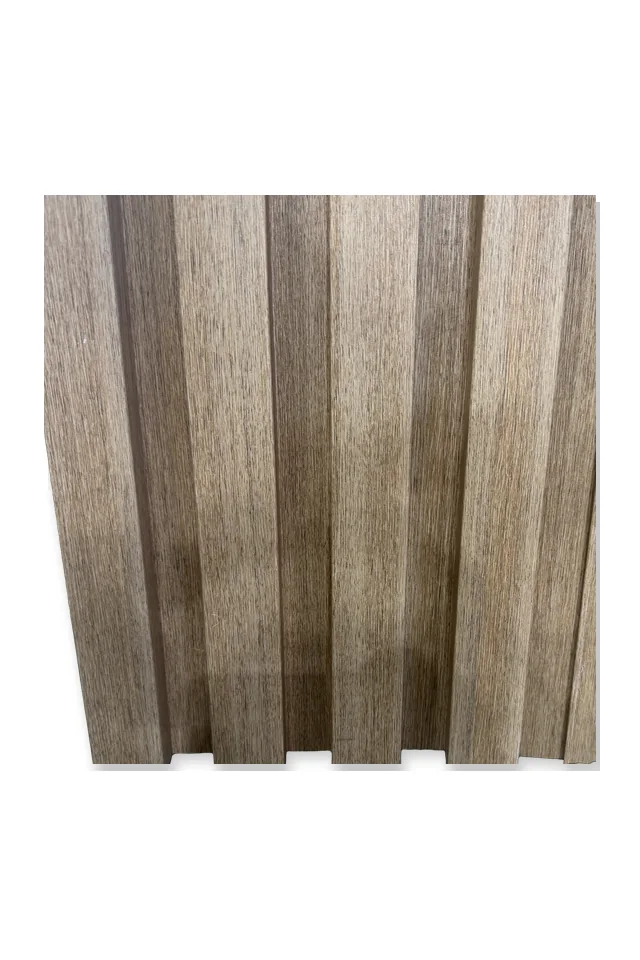
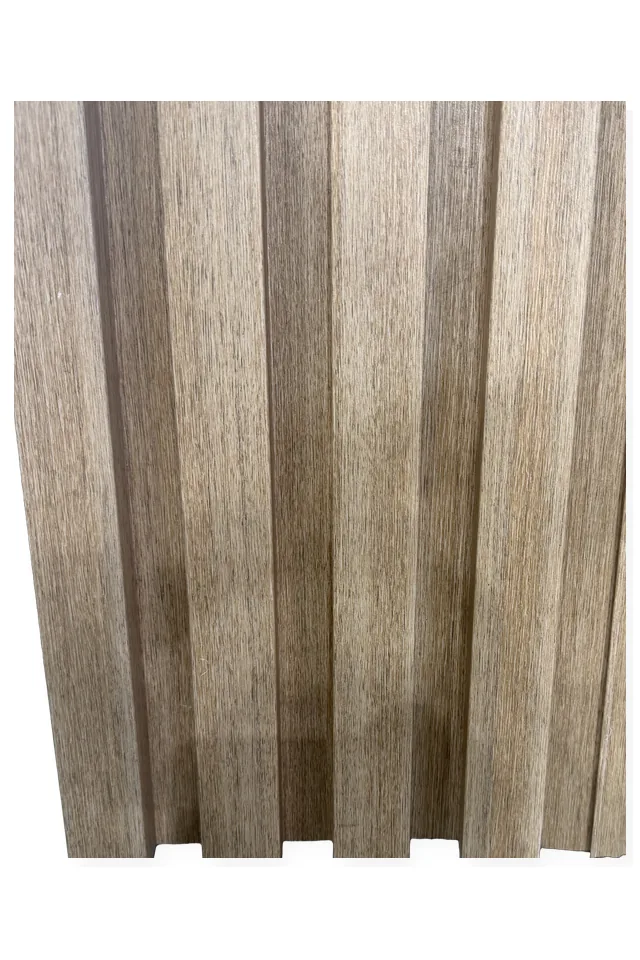
루버강판 이미지 밝기 미세 상향 및 세로 비율 확대
대표님 피드백: 웹 사진이 원본보다 어둡고, 세로 길이를 조금 더 길게.
- 패널 밝기 ~+9% (gamma 0.94×1.06, 흰 배경 #fff 유지, 결 보존)
- 페이스 세로 ×1.20 (가로 4골 유지)
- 허브 960×560 · 썸네일 480×280 · 갤러리 640×960 패널 더 길게 배치

diff --git a/products.html b/products.html
@@ -64,7 +64,7 @@
 <p class="lead">판넬부터 컬러강판·부자재·도어·사이딩·창문까지, 품목별 사진·도면·규격을 모두 모았습니다.</p>
 <nav class="jump" aria-label="분류 바로가기"><a href="#sandwich">샌드위치패널</a><a href="#steel">컬러강판</a><a href="#acc">부자재</a><a href="#pcfrp">PC/FRP</a><a href="#door">도어</a><a href="#metal">메탈사이딩</a><a href="#ceramic">세라믹사이딩</a><a href="#window">창문</a></nav>
 <section class="hub-cat" id="sandwich"><h2>샌드위치패널</h2><p>보통 컬러강판(스틸)으로 만들어진 이중 벽 구조를 가진 패널로, 내부에 단열재가 채워져 있어 열 및 소음 차단 효과가 뛰어납니다.</p><div class="hub-grid"><a class="hub-item" href="eps_panel.html"><div class="thumb"><img src="img/thumb/hub-eps_panel.webp" width="427" height="360" alt="EPS패널" loading="lazy" decoding="async"></div><div class="hb"><b>EPS패널</b><span>가장 경제적인 비용으로 건축물을 시공할 수 있는 대표적 패널입니다.</span></div></a><a class="hub-item" href="glass_panel.html"><div class="thumb"><img src="img/thumb/hub-glass_panel.webp" width="480" height="333" alt="그라스울패널" loading="lazy" decoding="async"></div><div class="hb"><b>그라스울패널</b><span>화재 시 인체에 유해한 유독가스가 발생하지 않아 화재로부터 위험을 극소화 시킬 수 있는 패널입니다.</span></div></a><a class="hub-item" href="urethane_panel.html"><div class="thumb"><img src="img/thumb/hub-urethane_panel.webp" width="480" height="332" alt="우레탄패널" loading="lazy" decoding="async"></div><div class="hb"><b>우레탄패널</b><span>방화성능과 뛰어난 단열성을 가진 패널입니다.</span></div></a></div></section>
-<section class="hub-cat" id="steel"><h2>컬러강판</h2><p>강판 표면에 특수 도료를 코팅하여 내식성과 내구성을 향상시킨 제품으로, 건축 및 건설 산업에서 내·외벽재로 널리 사용됩니다.</p><div class="hub-grid"><a class="hub-item" href="zinc_panel.html"><div class="thumb"><img src="img/thumb/hub-zinc_panel.webp" width="473" height="360" alt="징크강판" loading="lazy" decoding="async"></div><div class="hb"><b>징크강판</b><span>아연 도금된 강판으로, 내식성이 뛰어나고 오랜 기간 사용해도 부식이 적은 장점을 가지고 있습니다.</span></div></a><a class="hub-item" href="roof_panel.html"><div class="thumb"><img src="img/thumb/hub-roof_panel.webp" width="480" height="342" alt="지붕강판" loading="lazy" decoding="async"></div><div class="hb"><b>지붕강판</b><span>내부에 단열재가 채워져 있고, 내구성과 방수성이 뛰어나고 설치가 용이하여 건물의 지붕재료로 널리 사용됩니다.</span></div></a><a class="hub-item" href="louver_steel.html"><div class="thumb"><img src="img/thumb/hub-louver_steel.webp" width="480" height="332" alt="루버강판" loading="lazy" decoding="async"></div><div class="hb"><b>루버강판</b><span>가벼우면서도 강도가 높아서 건물의 빛과 통풍을 유지하면서도 안전하게 사용됩니다.</span></div></a><a class="hub-item" href="v115.html"><div class="thumb"><img src="img/thumb/hub-v115.webp" width="480" height="208" alt="V-115" loading="lazy" decoding="async"></div><div class="hb"><b>V-115</b><span>고온 환경에서의 사용에 적합하며 내식성과 내구성이 뛰어납니다.</span></div></a><a class="hub-item" href="pe_foam.html"><div class="thumb"><img src="img/thumb/hub-pe_foam.webp" width="480" height="273" alt="PE폼" loading="lazy" decoding="async"></div><div class="hb"><b>PE폼</b><span>경량이면서도 내구성이 뛰어나고 충격 흡수 능력이 높아서 패키징 및 보호재로 사용됩니다.</span></div></a><a class="hub-item" href="color_palette.html"><div class="thumb"><img src="img/thumb/hub-color_palette-mix.webp" width="510" height="294" alt="색상표" loading="lazy" decoding="async"></div><div class="hb"><b>색상표</b><span>해상도의 차이로 실제 색상은 다를 수 있으므로 주문하실 때에는 실제 색상을 확인 후 선택하시기 바랍니다.</span></div></a></div></section>
+<section class="hub-cat" id="steel"><h2>컬러강판</h2><p>강판 표면에 특수 도료를 코팅하여 내식성과 내구성을 향상시킨 제품으로, 건축 및 건설 산업에서 내·외벽재로 널리 사용됩니다.</p><div class="hub-grid"><a class="hub-item" href="zinc_panel.html"><div class="thumb"><img src="img/thumb/hub-zinc_panel.webp" width="473" height="360" alt="징크강판" loading="lazy" decoding="async"></div><div class="hb"><b>징크강판</b><span>아연 도금된 강판으로, 내식성이 뛰어나고 오랜 기간 사용해도 부식이 적은 장점을 가지고 있습니다.</span></div></a><a class="hub-item" href="roof_panel.html"><div class="thumb"><img src="img/thumb/hub-roof_panel.webp" width="480" height="342" alt="지붕강판" loading="lazy" decoding="async"></div><div class="hb"><b>지붕강판</b><span>내부에 단열재가 채워져 있고, 내구성과 방수성이 뛰어나고 설치가 용이하여 건물의 지붕재료로 널리 사용됩니다.</span></div></a><a class="hub-item" href="louver_steel.html"><div class="thumb"><img src="img/thumb/hub-louver_steel.webp" width="480" height="280" alt="루버강판" loading="lazy" decoding="async"></div><div class="hb"><b>루버강판</b><span>가벼우면서도 강도가 높아서 건물의 빛과 통풍을 유지하면서도 안전하게 사용됩니다.</span></div></a><a class="hub-item" href="v115.html"><div class="thumb"><img src="img/thumb/hub-v115.webp" width="480" height="208" alt="V-115" loading="lazy" decoding="async"></div><div class="hb"><b>V-115</b><span>고온 환경에서의 사용에 적합하며 내식성과 내구성이 뛰어납니다.</span></div></a><a class="hub-item" href="pe_foam.html"><div class="thumb"><img src="img/thumb/hub-pe_foam.webp" width="480" height="273" alt="PE폼" loading="lazy" decoding="async"></div><div class="hb"><b>PE폼</b><span>경량이면서도 내구성이 뛰어나고 충격 흡수 능력이 높아서 패키징 및 보호재로 사용됩니다.</span></div></a><a class="hub-item" href="color_palette.html"><div class="thumb"><img src="img/thumb/hub-color_palette-mix.webp" width="510" height="294" alt="색상표" loading="lazy" decoding="async"></div><div class="hb"><b>색상표</b><span>해상도의 차이로 실제 색상은 다를 수 있으므로 주문하실 때에는 실제 색상을 확인 후 선택하시기 바랍니다.</span></div></a></div></section>
 <section class="hub-cat" id="acc"><h2>부자재</h2><p>판넬 설치와 고정, 밀폐 등을 지원하여 구조적 완성도와 내구성을 높여주는 보조 자재입니다.</p><div class="hub-grid"><a class="hub-item" href="flashing.html"><div class="thumb"><img src="img/thumb/hub-flashing.webp" width="297" height="162" alt="후레싱" loading="lazy" decoding="async"></div><div class="hb"><b>후레싱</b><span>다양한 부자재를 통하여 정교하고 깔끔한 마무리를 할 수 있습니다.</span></div></a><a class="hub-item" href="water_pan.html"><div class="thumb"><img src="img/thumb/hub-water_pan.webp" width="273" height="199" alt="물받이시스템" loading="lazy" decoding="async"></div><div class="hb"><b>물받이시스템</b><span>건물의 지붕이나 외벽을 따라 빗물을 모아 배수하는 구조물로, 건물 손상을 방지하고 물을 효율적으로 처리하는 역할을 합니다.</span></div></a><a class="hub-item" href="clean_room.html"><div class="thumb"><img src="img/thumb/hub-clean_room.webp" width="380" height="251" alt="크린룸자재" loading="lazy" decoding="async"></div><div class="hb"><b>크린룸자재</b><span>청정 환경을 유지하거나 온도, 습도,압력 등의 환경관리를 위해 먼지와 오염 물질 차단 기능을 갖춘 특수 소재로 제작된 자재입니다.</span></div></a><a class="hub-item" href="panel_accessories.html"><div class="thumb"><img src="img/thumb/hub-panel_accessories.webp" width="198" height="153" alt="부속자재" loading="lazy" decoding="async"></div><div class="hb"><b>부속자재</b><span>판넬의 완성도를 높여주기 위한 자재입니다.</span></div></a></div></section>
 <section class="hub-cat" id="pcfrp"><h2>PC/FRP</h2><p>내구성이 뛰어난 건축 자재입니다.</p><div class="hub-grid"><a class="hub-item" href="pc_roof.html"><div class="thumb none">서비스 준비중입니다.</div><div class="hb"><b>PC지붕판</b><span>폴리카보네이트로 만든 투명하고 내구성이 강한 지붕재입니다.</span></div></a><a class="hub-item" href="frp.html"><div class="thumb none">서비스 준비중입니다.</div><div class="hb"><b>FRP</b><span>유리섬유 강화 플라스틱으로 만든 가볍고 강한 재료입니다.</span></div></a></div></section>
 <section class="hub-cat" id="door"><h2>도어</h2><p>다양한 재료로 제작되어 내구성과 보안성을 제공하는 건축 자재입니다.</p><div class="hub-grid"><a class="hub-item" href="hanger_door.html"><div class="thumb"><img src="img/thumb/hub-hanger_door.webp" width="339" height="360" alt="행거도어" loading="lazy" decoding="async"></div><div class="hb"><b>행거도어</b><span>경량으로 작동감이 유연하며 방음 및 단열성이 우수합니다.</span></div></a><a class="hub-item" href="swing_door.html"><div class="thumb"><img src="img/thumb/hub-swing_door.webp" width="480" height="324" alt="스윙도어" loading="lazy" decoding="async"></div><div class="hb"><b>스윙도어</b><span>각 접합 부위가 완전 밀봉되어 기밀성을 보존하고 분진이 부착되어도 쉽게 세척 제거 할 수 있습니다.</span></div></a><a class="hub-item" href="abs_door.html"><div class="thumb"><img src="img/thumb/hub-abs_door.webp" width="158" height="360" alt="ABS도어" loading="lazy" decoding="async"></div><div class="hb"><b>ABS도어</b><span>내구성과 방수성이 뛰어난 ABS 수지로 만든 경량의 도어입니다.</span></div></a><a class="hub-item" href="fire_door.html"><div class="thumb"><img src="img/thumb/hub-fire_door.webp" width="174" height="360" alt="방화문" loading="lazy" decoding="async"></div><div class="hb"><b>방화문</b><span>화재 시 불과 연기의 확산을 막아 안전을 보장하는 내화성이 뛰어난 도어입니다.</span></div></a><a class="hub-item" href="main_door.html"><div class="thumb"><img src="img/thumb/hub-main_door.webp" width="192" height="360" alt="현관문" loading="lazy" decoding="async"></div><div class="hb"><b>현관문</b><span>건물의 출입구에 설치되어 보안과 단열을 제공하는 기능적이고 내구성 있는 도어입니다.</span></div></a><a class="hub-item" href="sliding_door.html"><div class="thumb"><img src="img/thumb/hub-sliding_door.webp" width="225" height="360" alt="3연동도어" loading="lazy" decoding="async"></div><div class="hb"><b>3연동도어</b><span>문이 세 개의 패널로 구성되어, 슬라이딩 방식으로 열리고 닫히면서 공간 활용을 최적화하는 도어 시스템입니다.</span></div></a></div></section>

diff --git a/louver_steel.html b/louver_steel.html
@@ -70,7 +70,7 @@
   <article class="content">
 <h1>루버강판</h1>
 <p class="lead">가벼우면서도 강도가 높아서 건물의 빛과 통풍을 유지하면서도 안전하게 사용됩니다.</p>
-<figure class="fig"><a class="zoom" href="img/p/louver_steel/001_louver_steel_hub.webp" data-cap="루버강판 형상 · 3색"><picture><source type="image/webp" srcset="img/p/louver_steel/001_louver_steel_hub.webp"><img src="img/p/louver_steel/001_louver_steel_hub.png" width="960" height="540" alt="루버강판 — 유효폭 316mm · 돌출 골 4개 · 세로 시공 · 내츄럴/다크브라운/레드브라운 우드" loading="lazy" decoding="async"></picture></a><figcaption>루버강판 형상 (유효폭 316mm · 돌출 골 4개 · 세로 시공) · 내츄럴 우드 / 다크브라운 우드 / 레드브라운 우드</figcaption></figure>
+<figure class="fig"><a class="zoom" href="img/p/louver_steel/001_louver_steel_hub.webp" data-cap="루버강판 형상 · 3색"><picture><source type="image/webp" srcset="img/p/louver_steel/001_louver_steel_hub.webp"><img src="img/p/louver_steel/001_louver_steel_hub.png" width="960" height="560" alt="루버강판 — 유효폭 316mm · 돌출 골 4개 · 세로 시공 · 내츄럴/다크브라운/레드브라운 우드" loading="lazy" decoding="async"></picture></a><figcaption>루버강판 형상 (유효폭 316mm · 돌출 골 4개 · 세로 시공) · 내츄럴 우드 / 다크브라운 우드 / 레드브라운 우드</figcaption></figure>
 <figure class="fig"><a class="zoom" href="img/p/louver_steel/002_natural.webp" data-cap="내츄럴 우드"><picture><source type="image/webp" srcset="img/p/louver_steel/002_natural.webp"><img src="img/p/louver_steel/002_natural.png" width="640" height="960" alt="루버강판 내츄럴 우드 — 넓은 사각 골 · 세로 시공" loading="lazy" decoding="async"></picture></a><figcaption>내츄럴 우드</figcaption></figure>
 <figure class="fig"><a class="zoom" href="img/p/louver_steel/003_dark_brown.webp" data-cap="다크브라운 우드"><picture><source type="image/webp" srcset="img/p/louver_steel/003_dark_brown.webp"><img src="img/p/louver_steel/003_dark_brown.png" width="640" height="960" alt="루버강판 다크브라운 우드 — 넓은 사각 골 · 세로 시공" loading="lazy" decoding="async"></picture></a><figcaption>다크브라운 우드</figcaption></figure>
 <figure class="fig"><a class="zoom" href="img/p/louver_steel/004_red_brown.webp" data-cap="레드브라운 우드"><picture><source type="image/webp" srcset="img/p/louver_steel/004_red_brown.webp"><img src="img/p/louver_steel/004_red_brown.png" width="640" height="960" alt="루버강판 레드브라운 우드 — 넓은 사각 골 · 세로 시공" loading="lazy" decoding="async"></picture></a><figcaption>레드브라운 우드</figcaption></figure>
